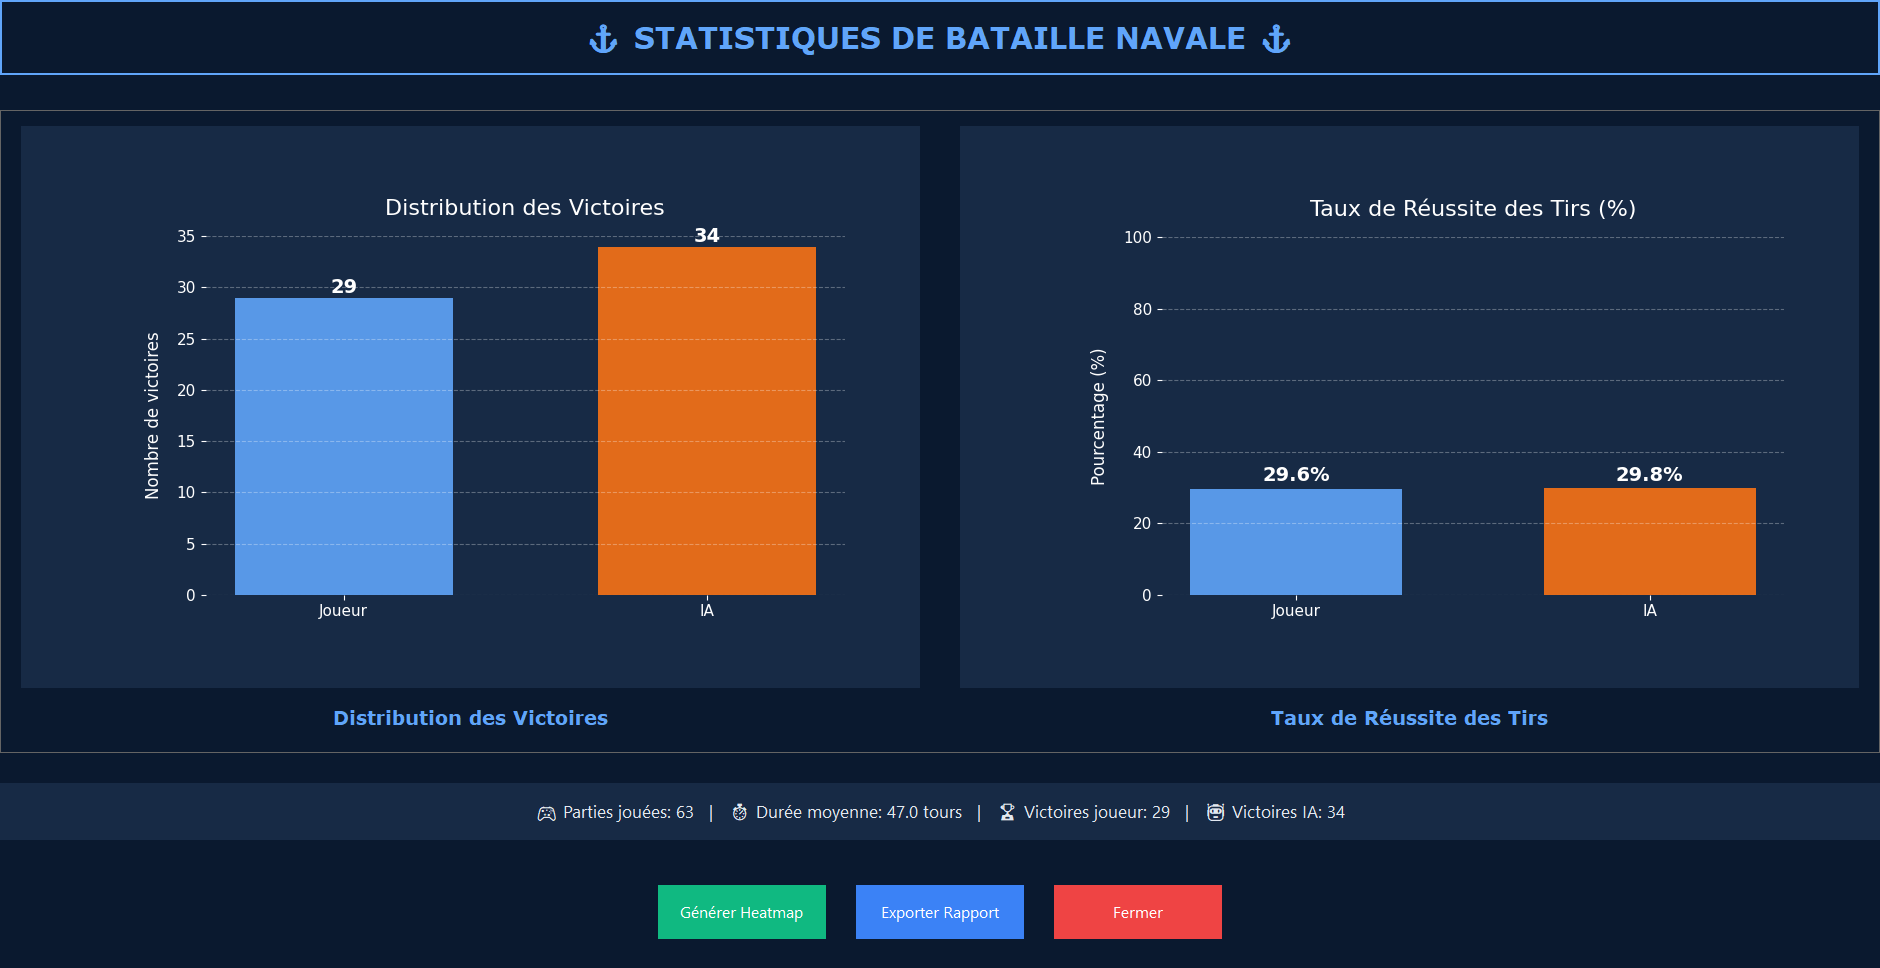
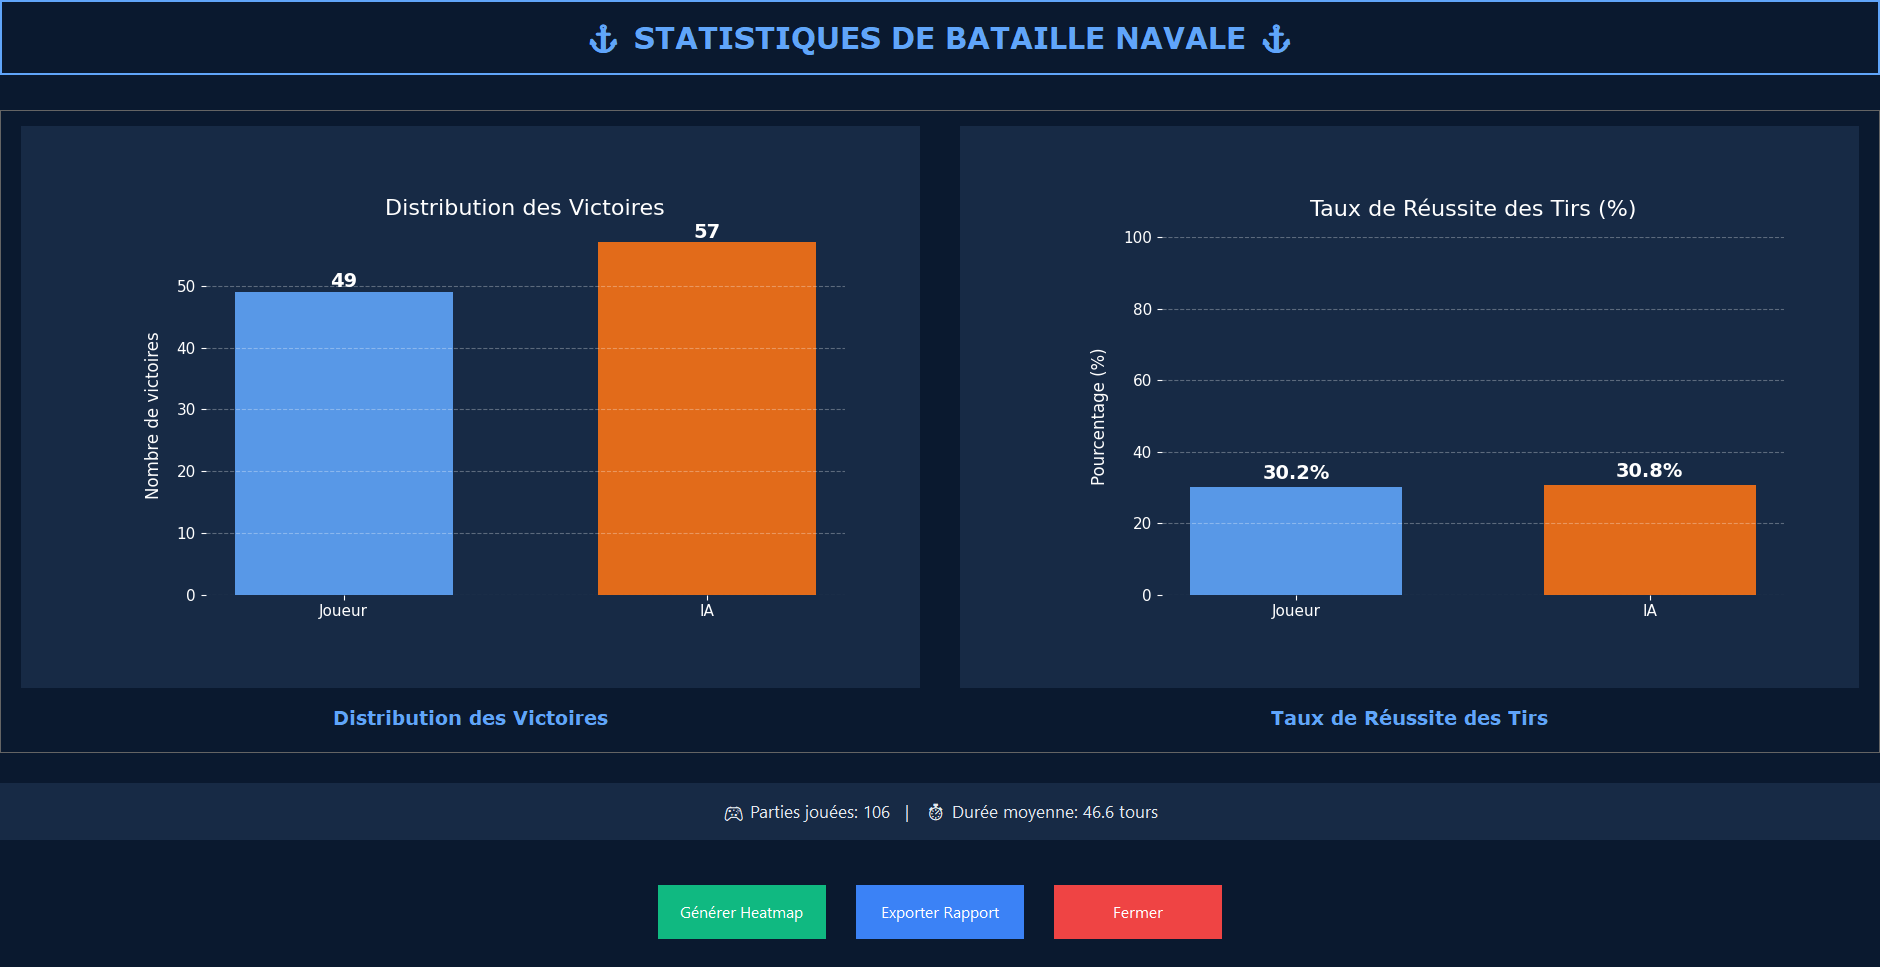
Useless thing removed in Stats Page

diff --git a/ui/statistics_view.py b/ui/statistics_view.py
@@ -146,9 +146,7 @@ class StatisticsView:
         
         stats_text = (
             f"🎮 Parties jouées: {total_games}   |   "
-            f"⏱ Durée moyenne: {avg_game_length:.1f} tours   |   "
-            f"🏆 Victoires joueur: {wins['player']}   |   "
-            f"🤖 Victoires IA: {wins['ai']}"
+            f"⏱ Durée moyenne: {avg_game_length:.1f} tours"
         )
         stats_label.config(text=stats_text)
         
